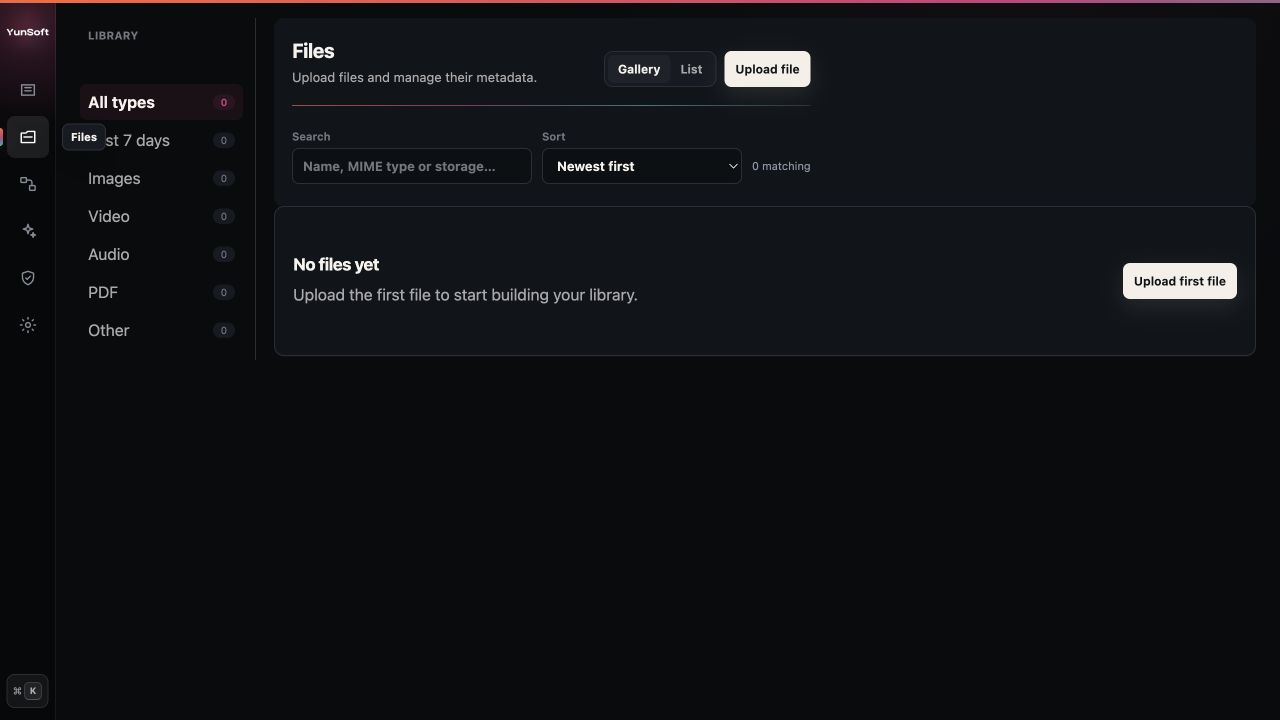
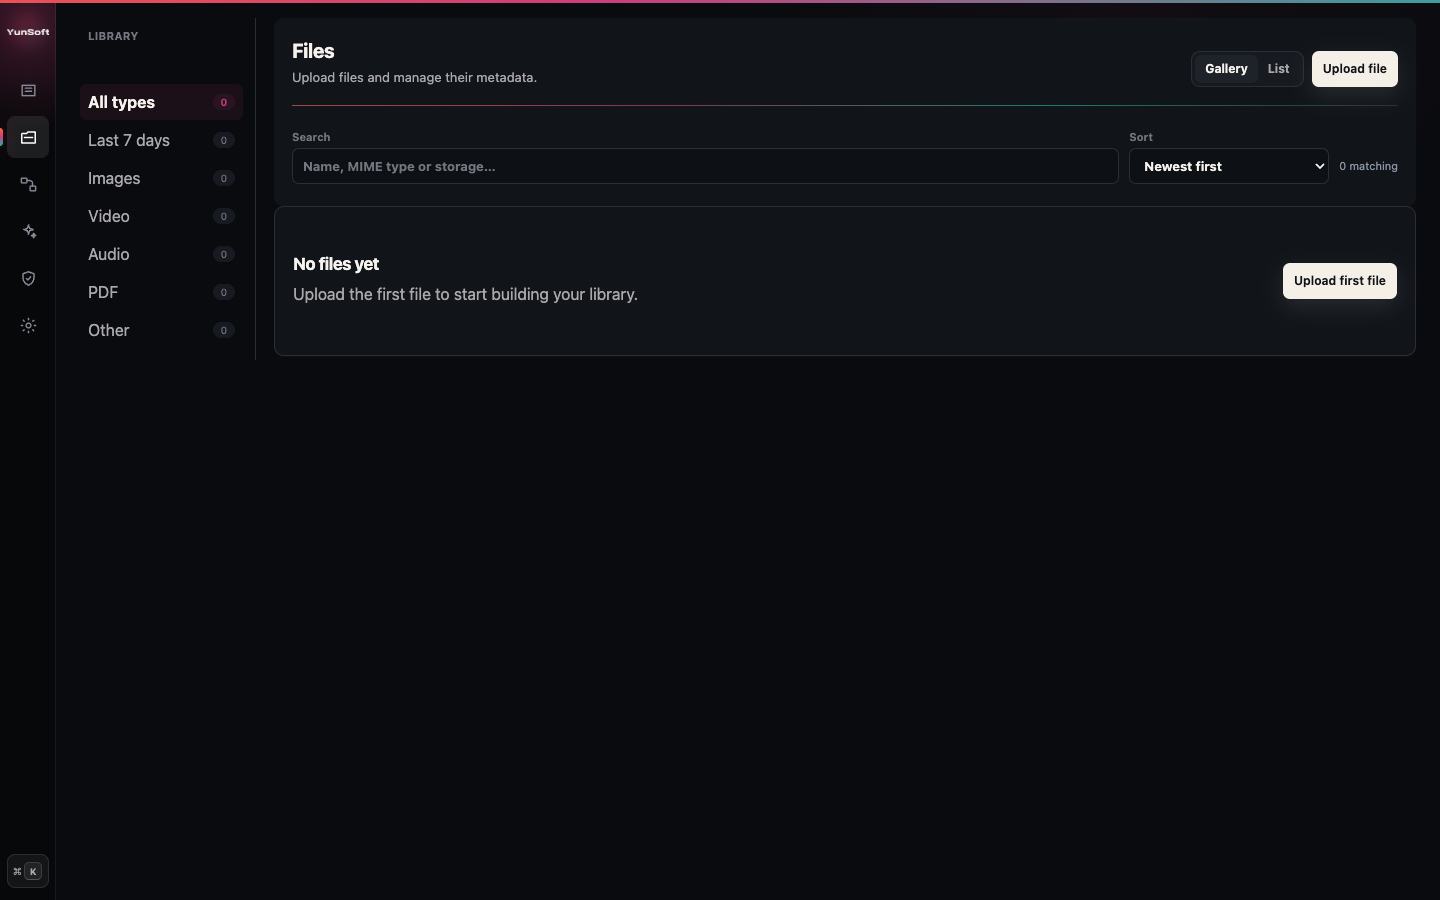
Prepare 0.1.17 release

diff --git a/plan.md b/plan.md
@@ -37,6 +37,19 @@ This file is the source of truth for implementation and release status. Detailed
 - [x] Pass the complete and release test suites, including real MySQL/API integration and npm package dry runs.
 - [x] Publish the public npm packages and verify `latest` resolves to 0.1.16 for each package.
 
+## 0.1.17 — contextual permissions and Studio visual QA
+
+- [x] Add parameterized `$CURRENT_USER`, `$CURRENT_ROLE`, `$NOW` and signed `$NOW(...)` filter values without weakening deny-by-default accountability.
+- [x] Apply dynamic values consistently to API filters, permission filters, relation reads, Files scopes and create/update validation.
+- [x] Expose supported dynamic values in the Studio visual rule builder and document YunCMS' deliberate V1 scope.
+- [x] Replace the clipped permission cards with a Directus-inspired collection-by-action matrix across desktop, tablet and mobile layouts.
+- [x] Replace the wrapped mobile “Open menu” control with a compact, accessible navigation trigger.
+- [x] Visually inspect every Studio workspace in light and dark themes at desktop, tablet and mobile sizes, then correct release-blocking layout defects.
+- [x] Replace the empty split sign-in surface with a responsive, project-logo-aware brand panel and keep auth action screens consistent.
+- [x] Correct the routed upload workspace so its heading, dropzone and queue use the full content width.
+- [x] Pass the fast, complete and release suites, including real MySQL/API integration and npm package dry runs.
+- [ ] Publish the public npm packages and verify `latest` resolves to 0.1.17 for each package.
+
 ## After this release
 
 - [ ] Complete only the environment-dependent verification items that remain in `todo.md` when the relevant environment is available.
